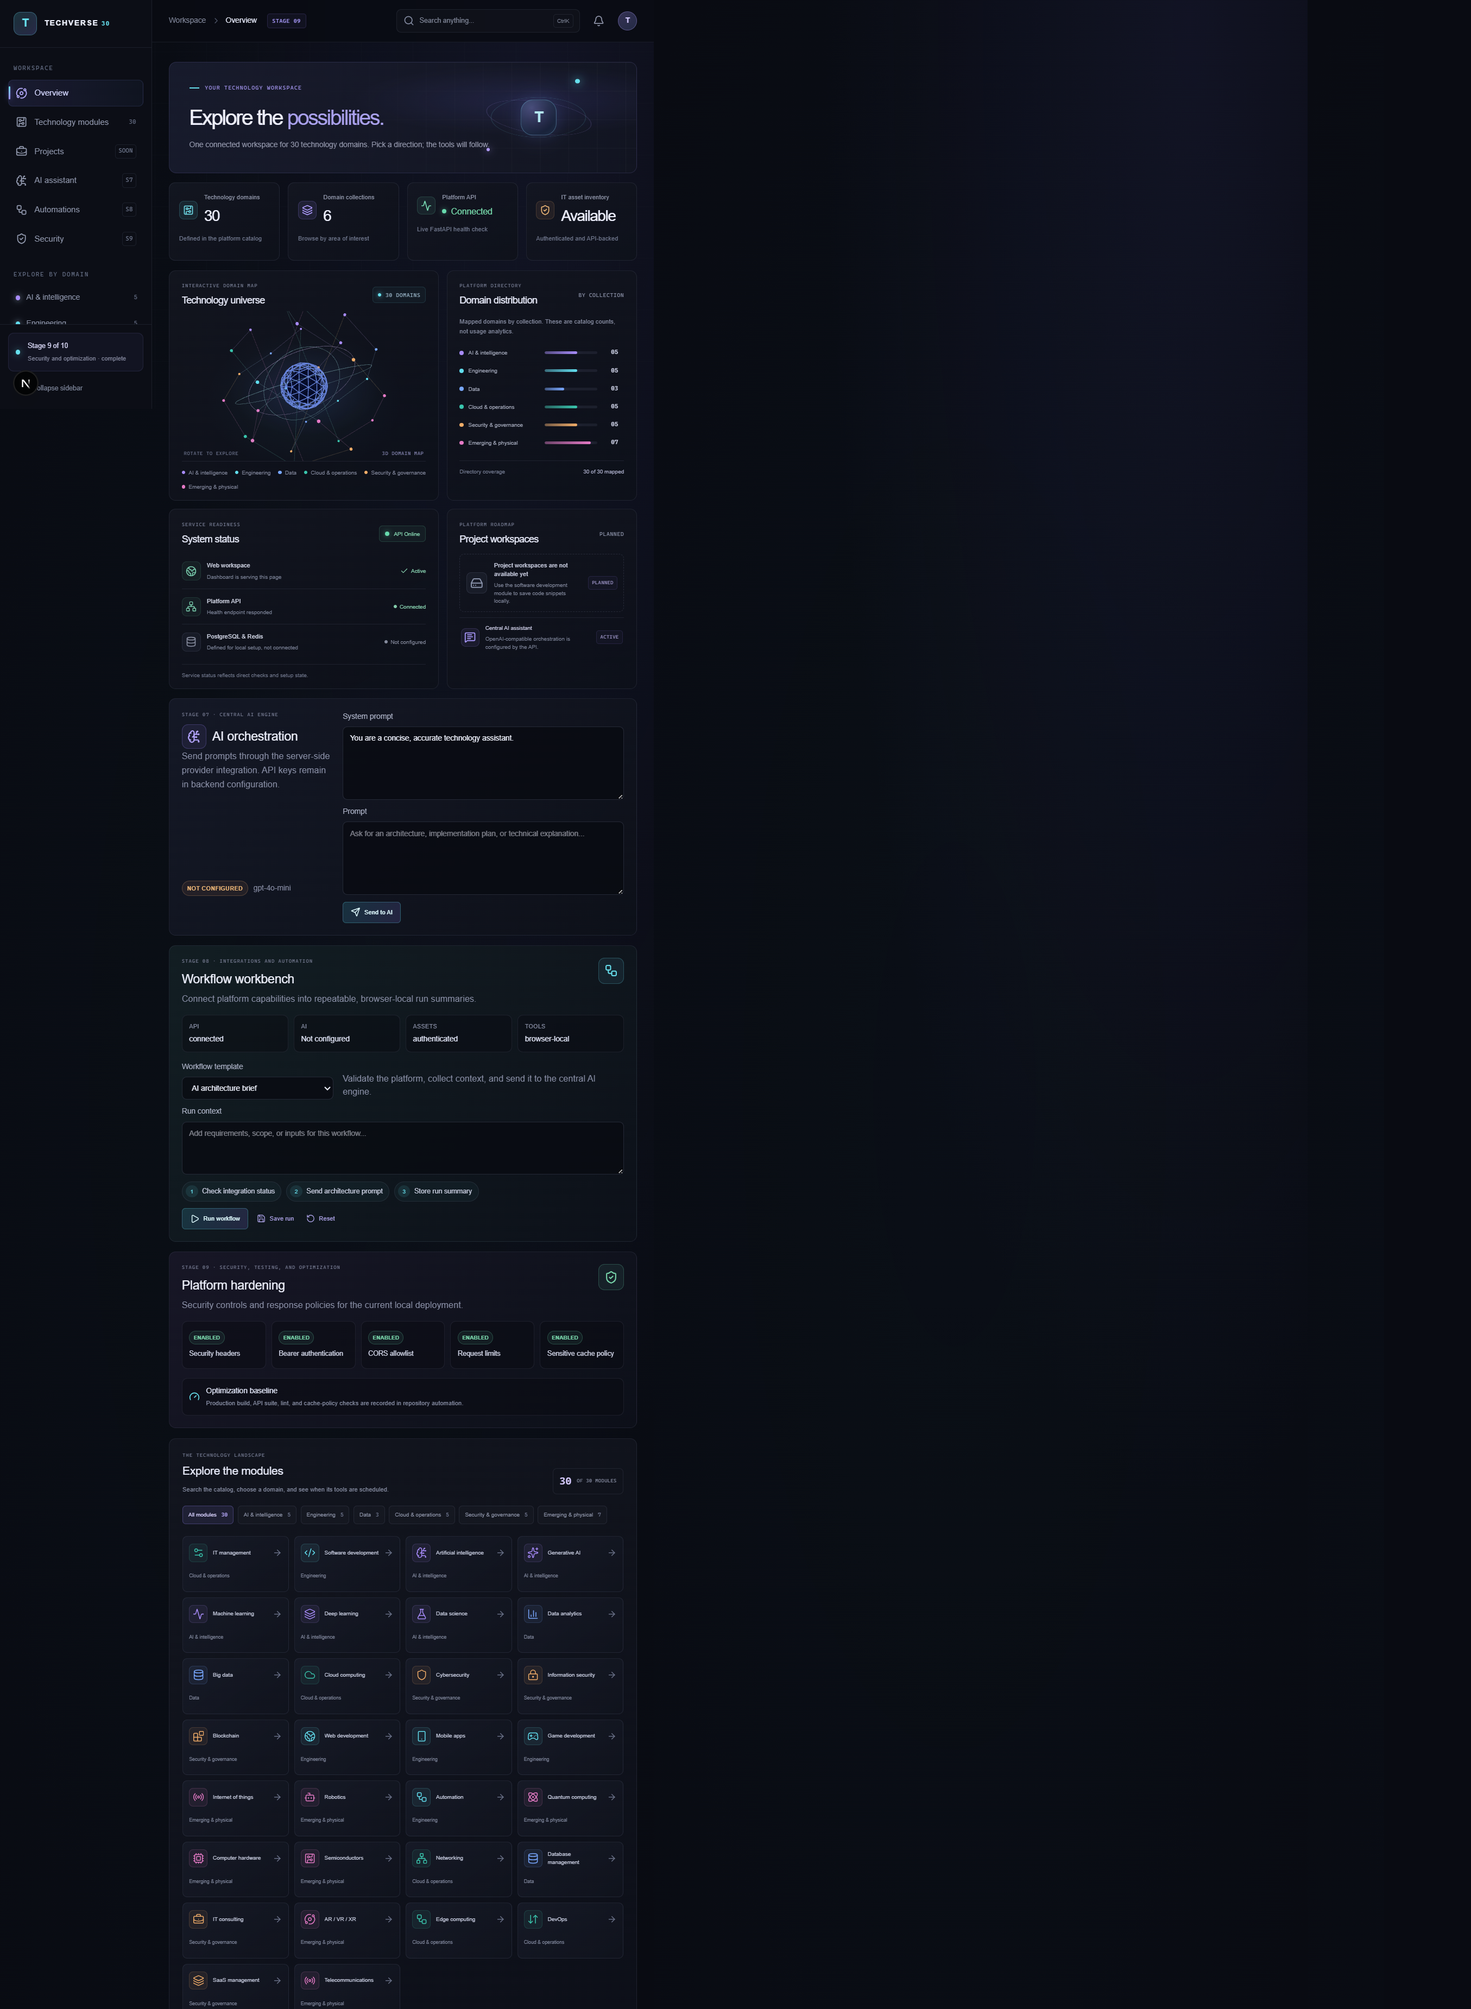
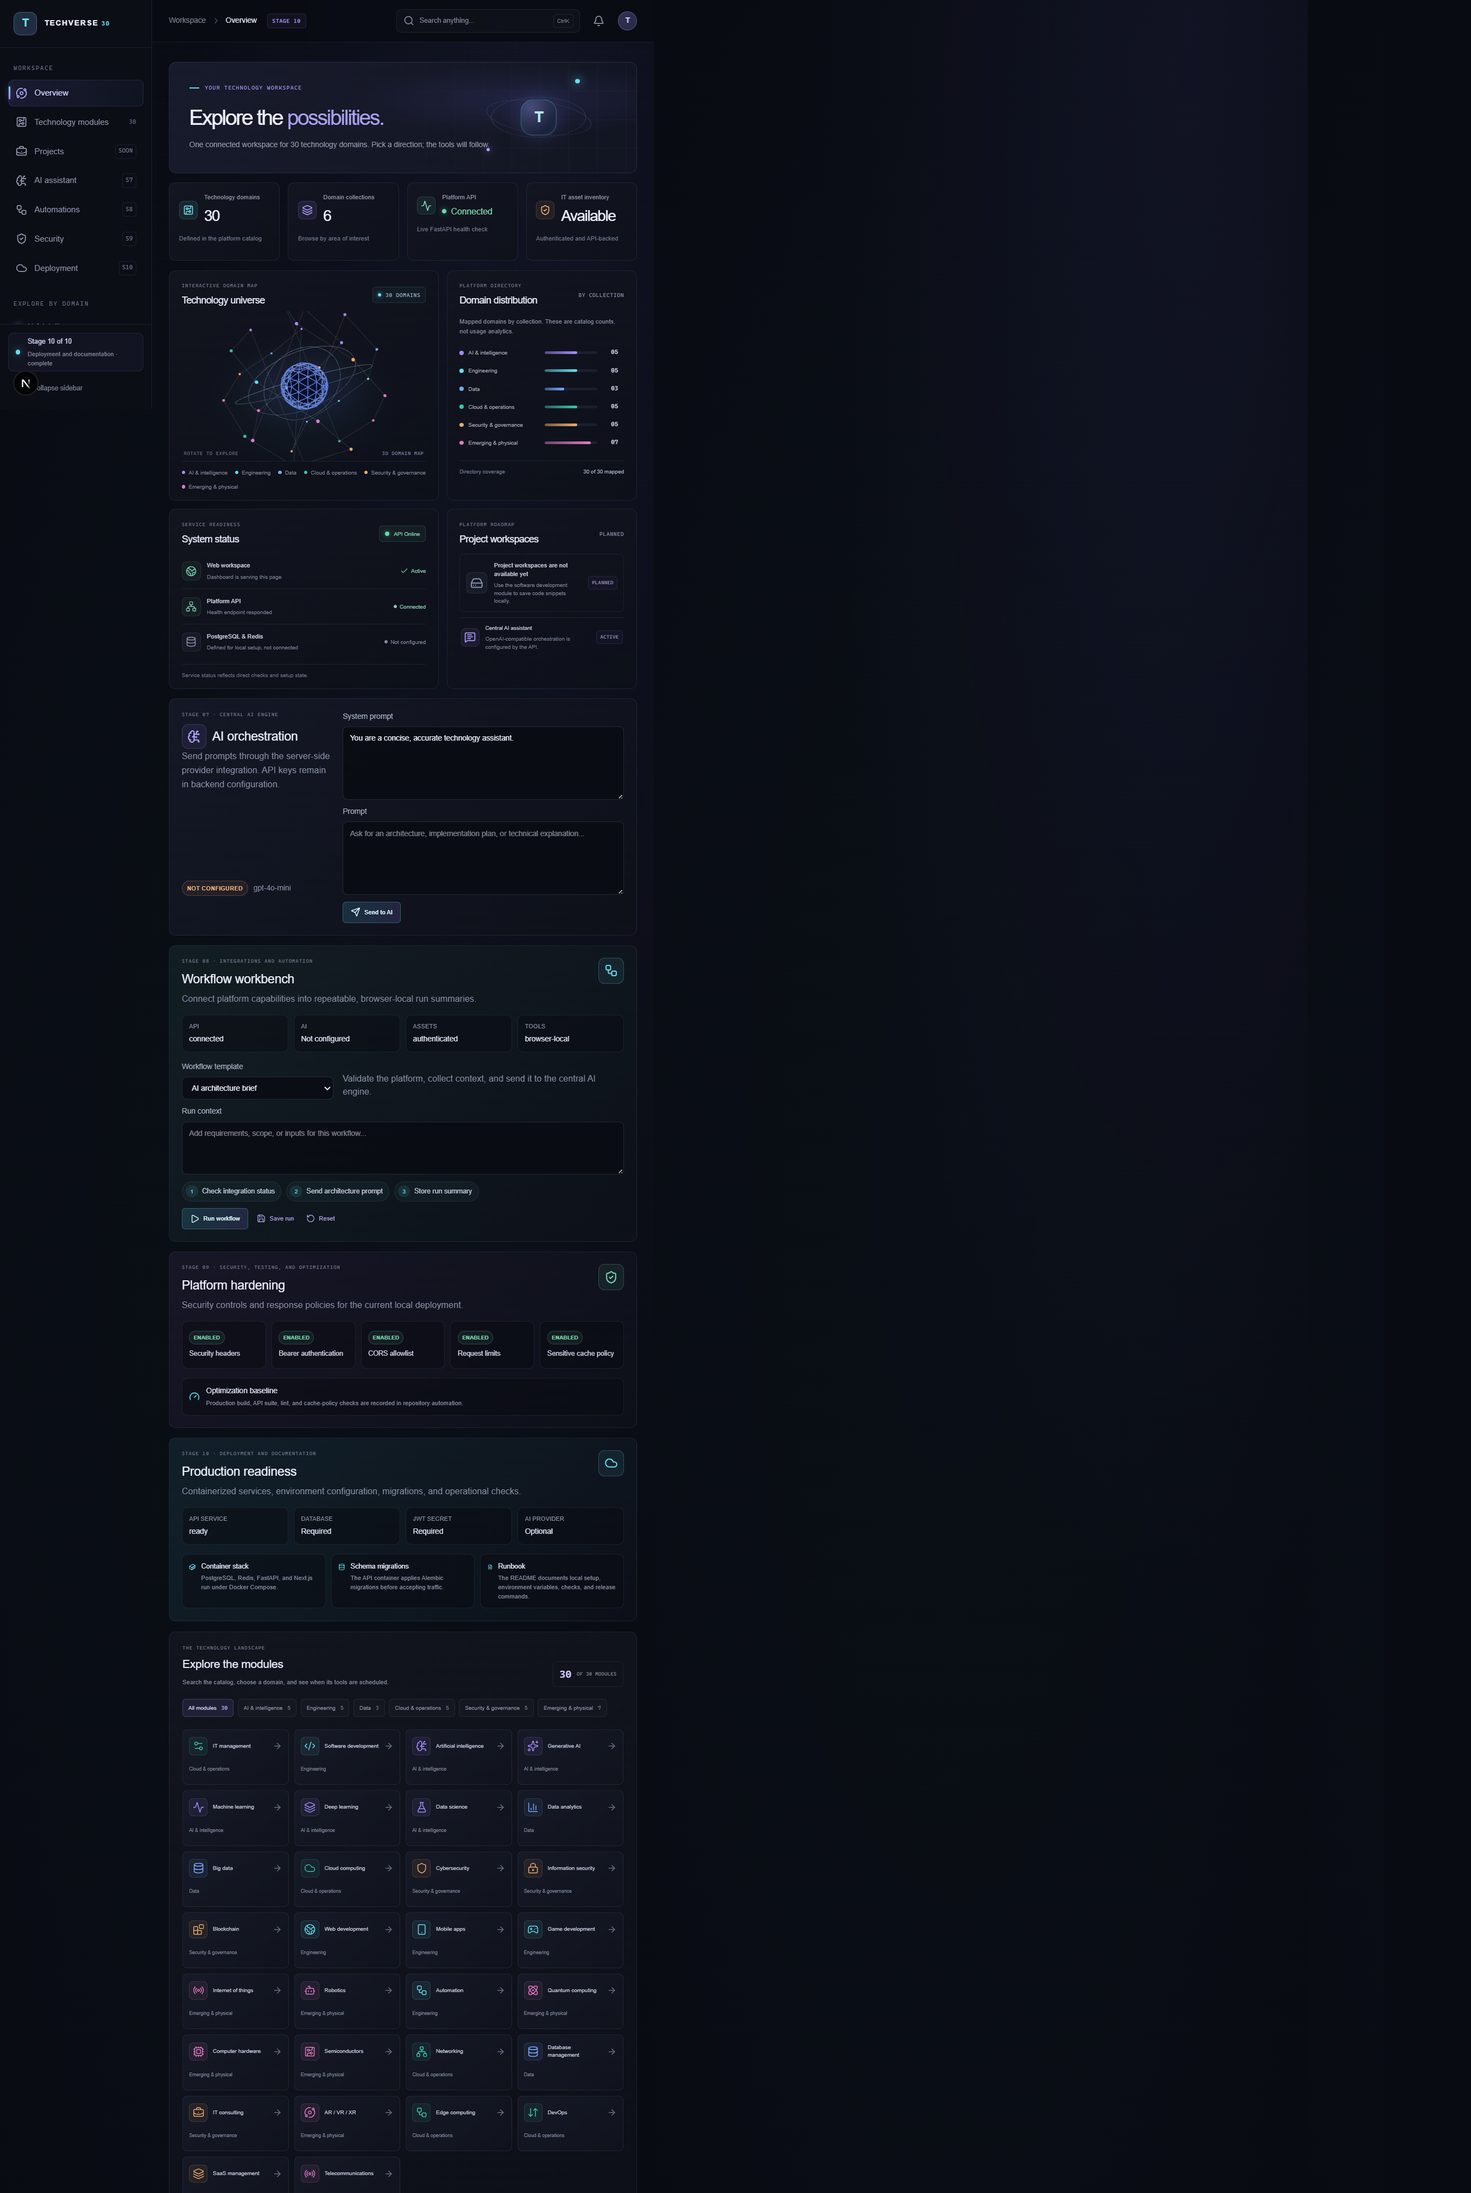
Complete Stage 10 deployment and documentation
Add Dockerfiles, full Compose deployment, CI workflow, deployment status and dashboard coverage, production standalone output, runbook updates, and refreshed dashboard imagery.\n\nCo-authored-by: Copilot <223556219+Copilot@users.noreply.github.com>

diff --git a/apps/web/src/app/page.tsx b/apps/web/src/app/page.tsx
@@ -45,6 +45,7 @@ import {
 } from "lucide-react";
 import AssetInventory from "@/components/AssetInventory";
 import CentralAIEngine from "@/components/CentralAIEngine";
+import DeploymentDocumentationPanel from "@/components/DeploymentDocumentationPanel";
 import DeveloperWorkspace from "@/components/DeveloperWorkspace";
 import IntegrationWorkbench from "@/components/IntegrationWorkbench";
 import ModuleWorkbench from "@/components/ModuleWorkbench";
@@ -389,6 +390,24 @@ export default function Home() {
                 </>
               )}
             </button>
+            <button
+              className="nav-link"
+              onClick={() =>
+                document.getElementById("deployment")?.scrollIntoView({
+                  behavior: "smooth",
+                  block: "start",
+                })
+              }
+              title={sidebarCollapsed ? "Deployment and documentation" : undefined}
+            >
+              <Cloud size={17} aria-hidden="true" />
+              {!sidebarCollapsed && (
+                <>
+                  <span>Deployment</span>
+                  <span className="nav-lock">S10</span>
+                </>
+              )}
+            </button>
           </nav>
 
           {!sidebarCollapsed && (
@@ -430,8 +449,8 @@ export default function Home() {
             <span className="roadmap-status" />
             {!sidebarCollapsed && (
               <span>
-                <strong>Stage 9 of 10</strong>
-                <small>Security and optimization · complete</small>
+                <strong>Stage 10 of 10</strong>
+                <small>Deployment and documentation · complete</small>
               </span>
             )}
           </div>
@@ -466,7 +485,7 @@ export default function Home() {
               <ChevronRight size={13} />
               <strong>Overview</strong>
             </div>
-            <span className="topbar-stage">STAGE 09</span>
+            <span className="topbar-stage">STAGE 10</span>
           </div>
 
           <div className="topbar-actions">
@@ -794,6 +813,7 @@ export default function Home() {
           <CentralAIEngine />
           <IntegrationWorkbench />
           <SecurityOptimizationPanel />
+          <DeploymentDocumentationPanel />
 
           <section
             className="panel module-library"
@@ -1037,9 +1057,9 @@ export default function Home() {
                 <i><Check size={10} /></i>
                 <span>Security and optimization</span>
               </span>
-              <span className="roadmap-connector" />
-              <span className="roadmap-step roadmap-step-current" aria-current="step">
-                <i><span /></i>
+              <span className="roadmap-connector roadmap-connector-active" />
+              <span className="roadmap-step roadmap-step-done">
+                <i><Check size={10} /></i>
                 <span>Deployment and documentation</span>
               </span>
             </div>
@@ -1047,7 +1067,7 @@ export default function Home() {
 
           <footer className="footer">
             <span>TECHVERSE 30</span>
-            <span>STAGE 09 COMPLETE · SECURITY AND OPTIMIZATION</span>
+            <span>STAGE 10 COMPLETE · DEPLOYMENT READY</span>
             <a href="#overview">
               Back to top <ChevronDown size={13} />
             </a>

diff --git a/apps/web/src/components/DeploymentDocumentationPanel.tsx b/apps/web/src/components/DeploymentDocumentationPanel.tsx
@@ -1,0 +1,72 @@
+"use client";
+
+import { useEffect, useState } from "react";
+import { Cloud, Container, Database, FileText } from "lucide-react";
+
+type DeploymentStatus = {
+  api: string;
+  database_configured: boolean;
+  jwt_configured: boolean;
+  ai_configured: boolean;
+  migrations: string;
+};
+
+export default function DeploymentDocumentationPanel() {
+  const [status, setStatus] = useState<DeploymentStatus | null>(null);
+
+  useEffect(() => {
+    const baseUrl = (
+      process.env.NEXT_PUBLIC_API_BASE_URL ?? "http://127.0.0.1:8000"
+    ).replace(/\/+$/, "");
+    void fetch(`${baseUrl}/deployment/status`, { cache: "no-store" })
+      .then(async (response) => {
+        if (!response.ok) throw new Error("Deployment status unavailable");
+        setStatus((await response.json()) as DeploymentStatus);
+      })
+      .catch(() => setStatus(null));
+  }, []);
+
+  const items = [
+    ["API service", status?.api ?? "Checking"],
+    ["Database", status ? (status.database_configured ? "Configured" : "Required") : "Checking"],
+    ["JWT secret", status ? (status.jwt_configured ? "Configured" : "Required") : "Checking"],
+    ["AI provider", status ? (status.ai_configured ? "Configured" : "Optional") : "Checking"],
+  ];
+
+  return (
+    <section className="deployment-panel" id="deployment" aria-labelledby="deployment-title">
+      <div className="deployment-heading">
+        <div>
+          <span className="panel-eyebrow">STAGE 10 · DEPLOYMENT AND DOCUMENTATION</span>
+          <h2 id="deployment-title">Production readiness</h2>
+          <p>Containerized services, environment configuration, migrations, and operational checks.</p>
+        </div>
+        <span className="deployment-icon"><Cloud size={20} aria-hidden="true" /></span>
+      </div>
+
+      <div className="deployment-status-grid">
+        {items.map(([label, value]) => (
+          <div key={String(label)}>
+            <span>{String(label)}</span>
+            <strong>{String(value)}</strong>
+          </div>
+        ))}
+      </div>
+
+      <div className="deployment-guides">
+        <article>
+          <Container size={16} aria-hidden="true" />
+          <span><strong>Container stack</strong><small>PostgreSQL, Redis, FastAPI, and Next.js run under Docker Compose.</small></span>
+        </article>
+        <article>
+          <Database size={16} aria-hidden="true" />
+          <span><strong>Schema migrations</strong><small>The API container applies Alembic migrations before accepting traffic.</small></span>
+        </article>
+        <article>
+          <FileText size={16} aria-hidden="true" />
+          <span><strong>Runbook</strong><small>The README documents local setup, environment variables, checks, and release commands.</small></span>
+        </article>
+      </div>
+    </section>
+  );
+}

diff --git a/apps/web/src/app/globals.css b/apps/web/src/app/globals.css
@@ -2875,6 +2875,119 @@ button.category-link {
  }
 }
 
+.deployment-panel {
+ display: grid;
+ gap: 14px;
+ margin: 14px 0;
+ padding: 18px;
+ border: 1px solid var(--line);
+ border-radius: 10px;
+ background: linear-gradient(135deg, rgba(18, 32, 42, 0.96), rgba(13, 16, 25, 0.96));
+}
+
+.deployment-heading {
+ display: flex;
+ align-items: start;
+ justify-content: space-between;
+ gap: 12px;
+}
+
+.deployment-heading h2 {
+ margin: 8px 0 5px;
+ font-size: 18px;
+ font-weight: 500;
+}
+
+.deployment-heading p {
+ margin: 0;
+ color: var(--muted);
+}
+
+.deployment-icon {
+ display: grid;
+ width: 38px;
+ height: 38px;
+ flex: 0 0 auto;
+ place-items: center;
+ border: 1px solid rgba(102, 223, 237, 0.24);
+ border-radius: 9px;
+ background: rgba(102, 223, 237, 0.08);
+ color: var(--cyan);
+}
+
+.deployment-status-grid {
+ display: grid;
+ grid-template-columns: repeat(4, minmax(0, 1fr));
+ gap: 8px;
+}
+
+.deployment-status-grid div {
+ display: grid;
+ gap: 4px;
+ min-height: 55px;
+ align-content: center;
+ border: 1px solid var(--line);
+ border-radius: 8px;
+ background: rgba(8, 10, 17, 0.48);
+ padding: 9px 10px;
+}
+
+.deployment-status-grid span {
+ color: var(--muted);
+ font-size: 9px;
+ text-transform: uppercase;
+}
+
+.deployment-status-grid strong {
+ color: #dfe3f5;
+ font-size: 11px;
+ font-weight: 500;
+}
+
+.deployment-guides {
+ display: grid;
+ grid-template-columns: repeat(3, minmax(0, 1fr));
+ gap: 8px;
+}
+
+.deployment-guides article {
+ display: flex;
+ align-items: flex-start;
+ gap: 8px;
+ border: 1px solid var(--line);
+ border-radius: 8px;
+ background: rgba(8, 10, 17, 0.48);
+ padding: 10px;
+ color: var(--cyan);
+}
+
+.deployment-guides article span {
+ display: grid;
+ gap: 3px;
+}
+
+.deployment-guides strong {
+ color: #dfe3f5;
+ font-size: 10px;
+ font-weight: 500;
+}
+
+.deployment-guides small {
+ color: var(--muted);
+ font-size: 9px;
+ line-height: 1.5;
+}
+
+@media (max-width: 940px) {
+ .deployment-status-grid {
+   grid-template-columns: repeat(2, minmax(0, 1fr));
+ }
+
+ .deployment-guides {
+   grid-template-columns: 1fr;
+ }
+}
+
 .roadmap-step-future {
   color: #a8adbf;
 }

diff --git a/apps/web/next.config.ts b/apps/web/next.config.ts
@@ -1,7 +1,7 @@
 import type { NextConfig } from "next";
 
 const nextConfig: NextConfig = {
-  /* config options here */
+  output: "standalone",
   distDir:
     process.env.TECHVERSE_AUTOMATED_BUILD === "1" ? ".next-automation" : ".next",
   cacheComponents: true,

diff --git a/apps/api/app/main.py b/apps/api/app/main.py
@@ -7,7 +7,7 @@ from app.assets import router as assets_router
 from app.auth import router as auth_router
 from app.integrations import router as integrations_router
 from app.platform_security import PlatformSecurityMiddleware
-from app.schemas import HealthResponse, SecurityStatusResponse
+from app.schemas import DeploymentStatusResponse, HealthResponse, SecurityStatusResponse
 
 frontend_origin = os.getenv("FRONTEND_ORIGIN")
 default_origins = ["http://localhost:3000", "http://127.0.0.1:3000"]
@@ -50,4 +50,17 @@ async def security_status() -> SecurityStatusResponse:
         cors_allowlist=bool(allowed_origins),
         request_limits=True,
         no_store_sensitive_routes=True,
+    )
+
+
+@app.get("/deployment/status", response_model=DeploymentStatusResponse, tags=["platform"])
+async def deployment_status() -> DeploymentStatusResponse:
+    jwt_configured = len(os.getenv("JWT_SECRET", "").encode("utf-8")) >= 32
+    ai_configured = bool(os.getenv("LLM_API_KEY", "").strip())
+    return DeploymentStatusResponse(
+        api="ready",
+        database_configured=bool(os.getenv("DATABASE_URL", "").strip()),
+        jwt_configured=jwt_configured,
+        ai_configured=ai_configured,
+        migrations="must be applied before startup",
     )

diff --git a/apps/api/tests/test_ai.py b/apps/api/tests/test_ai.py
@@ -63,3 +63,12 @@ def test_request_body_limit(client: TestClient) -> None:
     )
 
     assert response.status_code == 413
+
+
+def test_deployment_status(client: TestClient) -> None:
+    response = client.get("/deployment/status")
+
+    assert response.status_code == 200
+    assert response.json()["api"] == "ready"
+    assert "database_configured" in response.json()
+    assert "jwt_configured" in response.json()

diff --git a/apps/api/app/schemas.py b/apps/api/app/schemas.py
@@ -48,6 +48,14 @@ class SecurityStatusResponse(BaseModel):
     no_store_sensitive_routes: bool
 
 
+class DeploymentStatusResponse(BaseModel):
+    api: str
+    database_configured: bool
+    jwt_configured: bool
+    ai_configured: bool
+    migrations: str
+
+
 class RegisterRequest(BaseModel):
     email: EmailStr = Field(max_length=320)
     password: str = Field(min_length=12, max_length=128)

diff --git a/README.md b/README.md
@@ -1,6 +1,6 @@
 # TECHVERSE 30
 
-An integrated technology workspace under staged development. Stages 1–5 provide the project foundation, responsive dashboard and 3D technology map, database-backed accounts, signed bearer tokens, a private, authenticated IT asset inventory, and first-pass tools for technology modules 2–16. Stage 6 is complete with browser-local tools for IoT, robotics, automation, quantum computing, computer hardware, semiconductors, networking, database management, IT consulting, AR/VR/XR, edge computing, DevOps, SaaS management, and telecommunications. Stage 7 adds a server-side, OpenAI-compatible central AI engine with provider credentials kept out of the browser. Stage 8 adds cross-platform integration status and browser-local workflow automation. Stage 9 adds security headers, request limits, provider URL validation, sensitive-route cache policies, and an exposed security-status view. Stage 10 remains planned.
+An integrated technology workspace delivered across 10 stages. Stages 1–5 provide the project foundation, dashboard and 3D technology map, database-backed accounts, signed bearer tokens, and private authenticated asset management. Stage 6 adds browser-local module tools, Stage 7 adds an OpenAI-compatible central AI engine, Stage 8 adds workflow integration, and Stage 9 adds security controls and tests. Stage 10 provides container deployment, CI automation, environment guidance, and operational documentation.
 
 ## Dashboard preview
 
@@ -122,9 +122,29 @@ docker compose --env-file .env -f infra\docker-compose.yml up -d
 
 Do not use the example credentials outside local development. Apply migrations with `.\.venv\Scripts\alembic.exe -c apps\api\alembic.ini upgrade head` before using authentication or the asset inventory.
 
+## Container deployment
+
+The repository includes Dockerfiles for the FastAPI API and Next.js frontend plus a full Compose stack for PostgreSQL, Redis, the API, and the web app:
+
+```powershell
+Copy-Item .env.example .env
+# Replace every development-only secret and set public origins.
+docker compose --env-file .env -f infra\docker-compose.yml up --build
+```
+
+Deployable services:
+
+- API: `http://localhost:8000`
+- Frontend: `http://localhost:3000`
+- Interactive API documentation: `http://localhost:8000/docs`
+- Health: `http://localhost:8000/health`
+- Deployment status: `http://localhost:8000/deployment/status`
+
+The API container runs Alembic migrations before starting Uvicorn. Set `DATABASE_URL`, `JWT_SECRET`, `FRONTEND_ORIGIN`, and `NEXT_PUBLIC_API_BASE_URL` for each deployment environment. Never place `LLM_API_KEY` or `JWT_SECRET` in a `NEXT_PUBLIC_*` variable. GitHub Actions runs frontend lint/build and API tests for pushes and pull requests to `main`.
+
 ## Delivery stages and status
 
-Stages 1–9 are implemented in this repository. Stage 10 is planned. A stage is marked complete only after its deliverables are implemented and verified.
+Stages 1–10 are implemented in this repository. A stage is marked complete only after its deliverables are implemented and verified.
 
 | Stage | Scope | Status |
 | --- | --- | --- |
@@ -137,4 +157,4 @@ Stages 1–9 are implemented in this repository. Stage 10 is planned. A stage is
 | 7. Central AI engine | Add a server-side AI orchestration layer with provider integrations, configuration, and safe handling of credentials. | Complete |
 | 8. Integrations and automation | Connect modules through defined interfaces and add cross-module workflows and automation. | Complete |
 | 9. Security, testing, and optimization | Extend security controls and automated coverage across the platform; measure and improve reliability and performance. | Complete |
-| 10. Deployment and documentation | Define production deployment, environment configuration, operational guidance, and user-facing documentation. | Planned |
+| 10. Deployment and documentation | Define production deployment, environment configuration, operational guidance, and user-facing documentation. | Complete |
